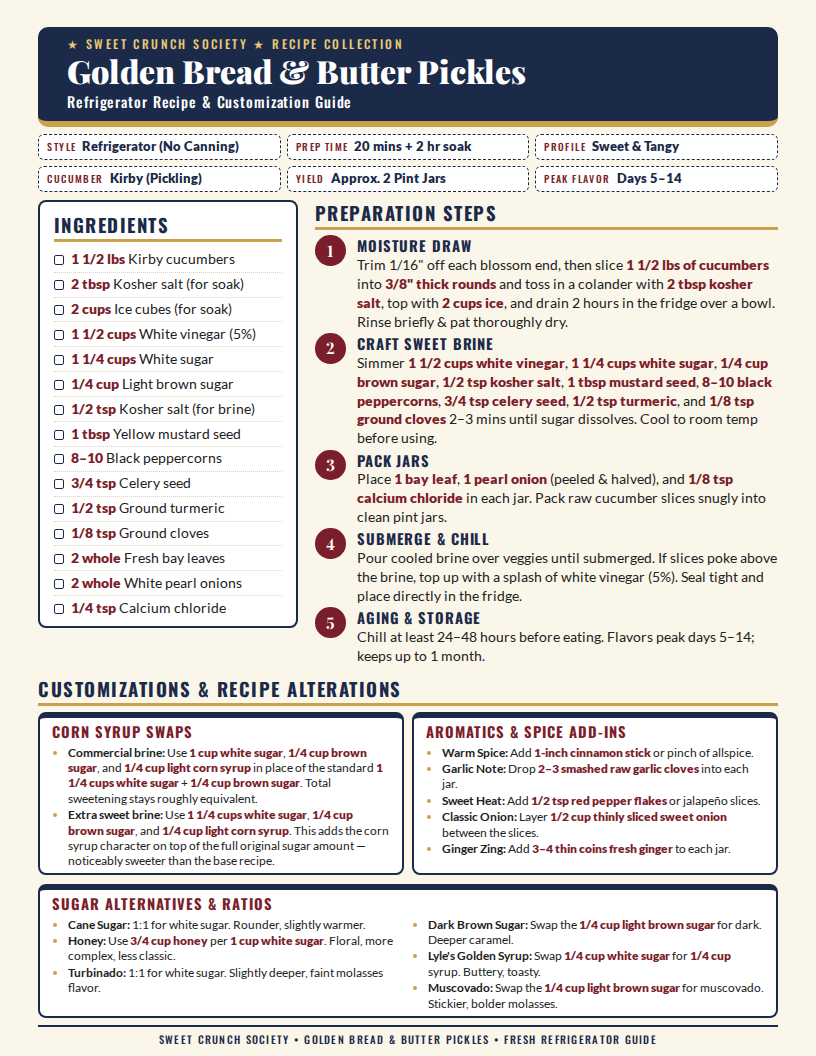
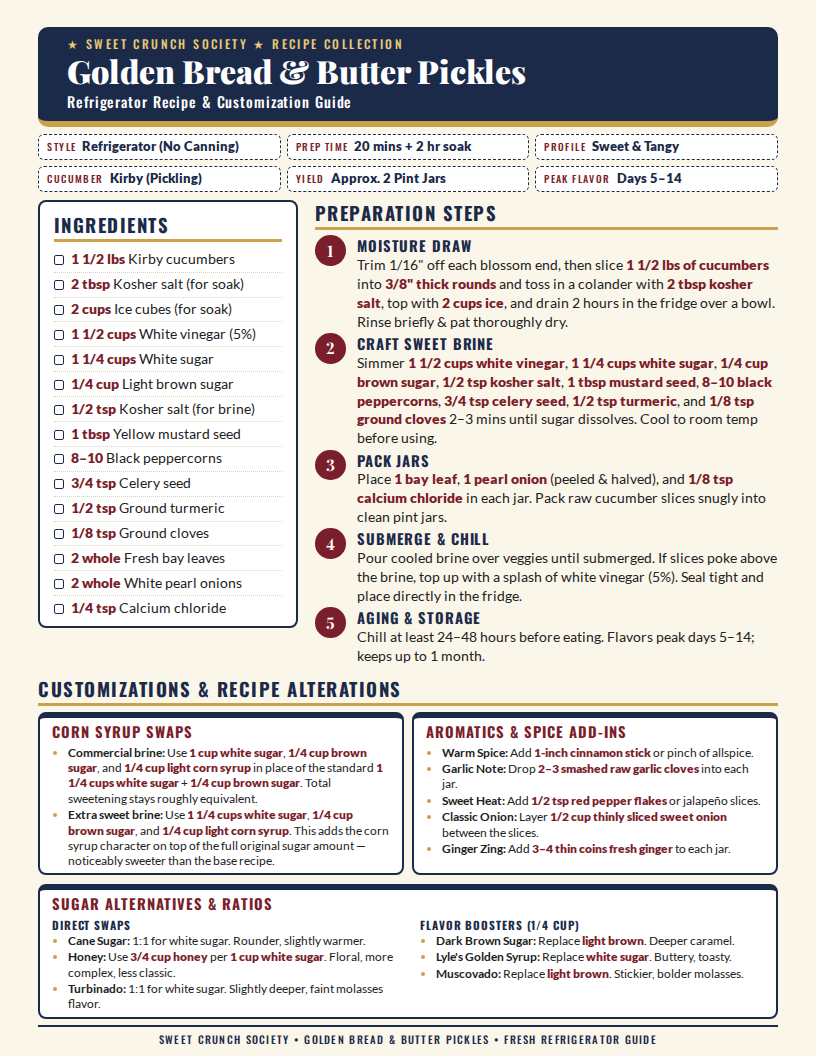
feat: add Direct Swaps / Flavor Boosters subtitles to Sugar Alternatives
Split the Sugar Alternatives card into two labeled groups:
- Direct Swaps: Cane Sugar, Honey, Turbinado (replace the sugar outright)
- Flavor Boosters (1/4 cup): Dark Brown Sugar, Lyle's Golden Syrup,
  Muscovado (small swaps for depth)
Replaced the CSS-columns layout with a two-column grid (.split) so each
group can carry its own h4 subtitle. Shortened the boosters' wording
("Replace light brown. Deeper caramel.") since the subtitle already
states the 1/4 cup amount, which keeps the sheet inside the footer.
Regenerated docs/preview.png.

Changed region(s): [[0.0613, 0.875, 0.4902, 0.9688], [0.5208, 0.875, 0.9191, 0.9688]]

diff --git a/index.html b/index.html
@@ -108,9 +108,8 @@
   .card ul { margin: 0; padding-left: 16px; font-size: 9pt; line-height: 1.28; }
   .card li { margin-bottom: 1px; }
   .card.wide { grid-column: 1 / -1; }
-  .card.wide ul { columns: 2; column-gap: 0.25in; }
-  .card.wide li { break-inside: avoid; }
-  .card.wide li.col-break { break-before: column; }
+  .split { display: grid; grid-template-columns: 1fr 1fr; gap: 0.25in; }
+  .card h4 { margin: 0 0 1px; font-family: 'Oswald', sans-serif; text-transform: uppercase; letter-spacing: .08em; font-size: 8.5pt; color: var(--dill); }
   .card li::marker { color: var(--gold); }
   .card li strong { color: var(--brick); font-weight: 900; } /* inline amounts */
 
@@ -198,14 +197,24 @@
         </div>
         <div class="card wide">
           <h3>Sugar Alternatives &amp; Ratios</h3>
-          <ul>
-            <li><b>Cane Sugar:</b> 1:1 for white sugar. Rounder, slightly warmer.</li>
-            <li><b>Honey:</b> Use <strong>3/4 cup honey</strong> per <strong>1 cup white sugar</strong>. Floral, more complex, less classic.</li>
-            <li><b>Turbinado:</b> 1:1 for white sugar. Slightly deeper, faint molasses flavor.</li>
-            <li class="col-break"><b>Dark Brown Sugar:</b> Swap the <strong>1/4 cup light brown sugar</strong> for dark. Deeper caramel.</li>
-            <li><b>Lyle's Golden Syrup:</b> Swap <strong>1/4 cup white sugar</strong> for <strong>1/4 cup</strong> syrup. Buttery, toasty.</li>
-            <li><b>Muscovado:</b> Swap the <strong>1/4 cup light brown sugar</strong> for muscovado. Stickier, bolder molasses.</li>
-          </ul>
+          <div class="split">
+            <div>
+              <h4>Direct Swaps</h4>
+              <ul>
+                <li><b>Cane Sugar:</b> 1:1 for white sugar. Rounder, slightly warmer.</li>
+                <li><b>Honey:</b> Use <strong>3/4 cup honey</strong> per <strong>1 cup white sugar</strong>. Floral, more complex, less classic.</li>
+                <li><b>Turbinado:</b> 1:1 for white sugar. Slightly deeper, faint molasses flavor.</li>
+              </ul>
+            </div>
+            <div>
+              <h4>Flavor Boosters (1/4 cup)</h4>
+              <ul>
+                <li><b>Dark Brown Sugar:</b> Replace <strong>light brown</strong>. Deeper caramel.</li>
+                <li><b>Lyle's Golden Syrup:</b> Replace <strong>white sugar</strong>. Buttery, toasty.</li>
+                <li><b>Muscovado:</b> Replace <strong>light brown</strong>. Stickier, bolder molasses.</li>
+              </ul>
+            </div>
+          </div>
         </div>
       </div>
     </section>
